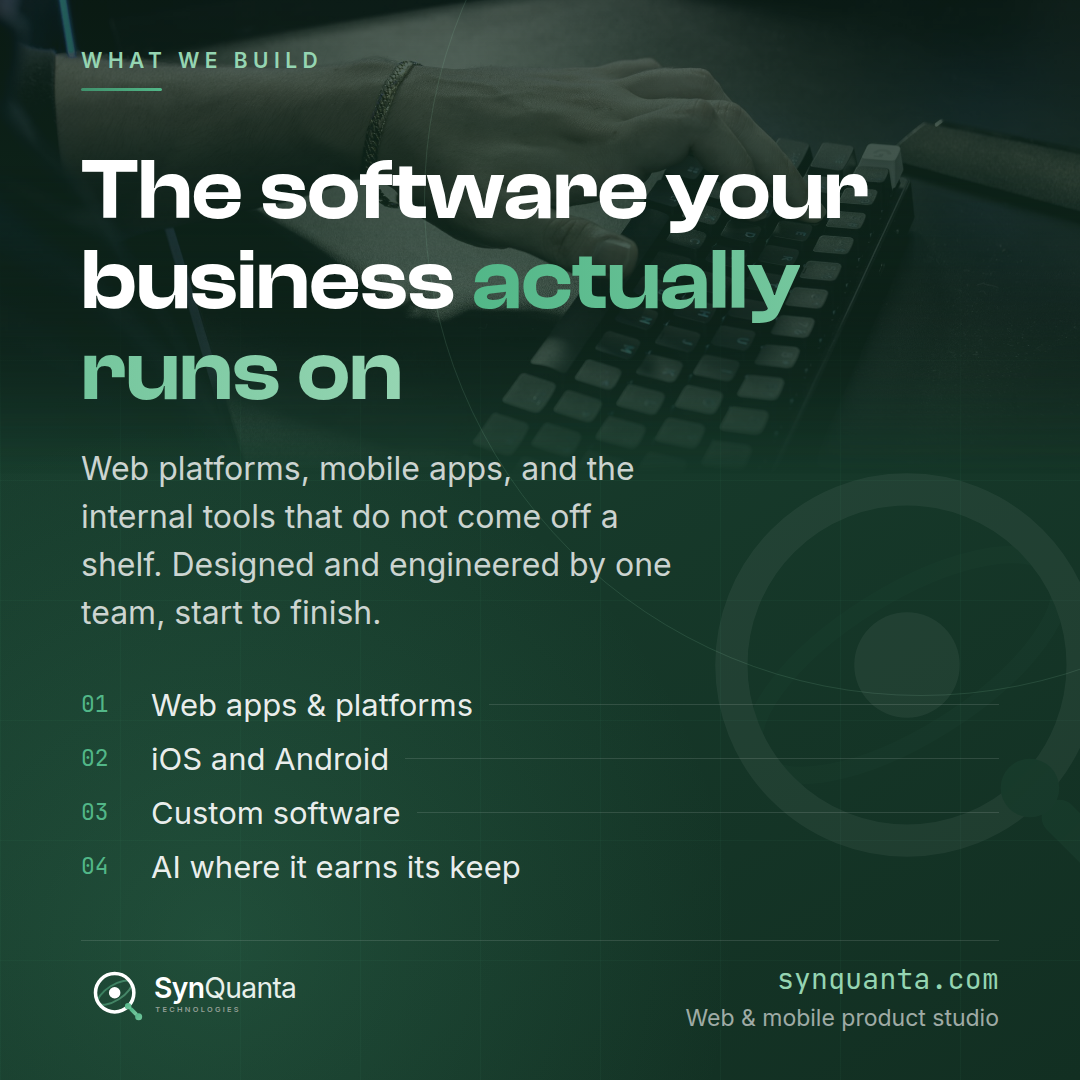
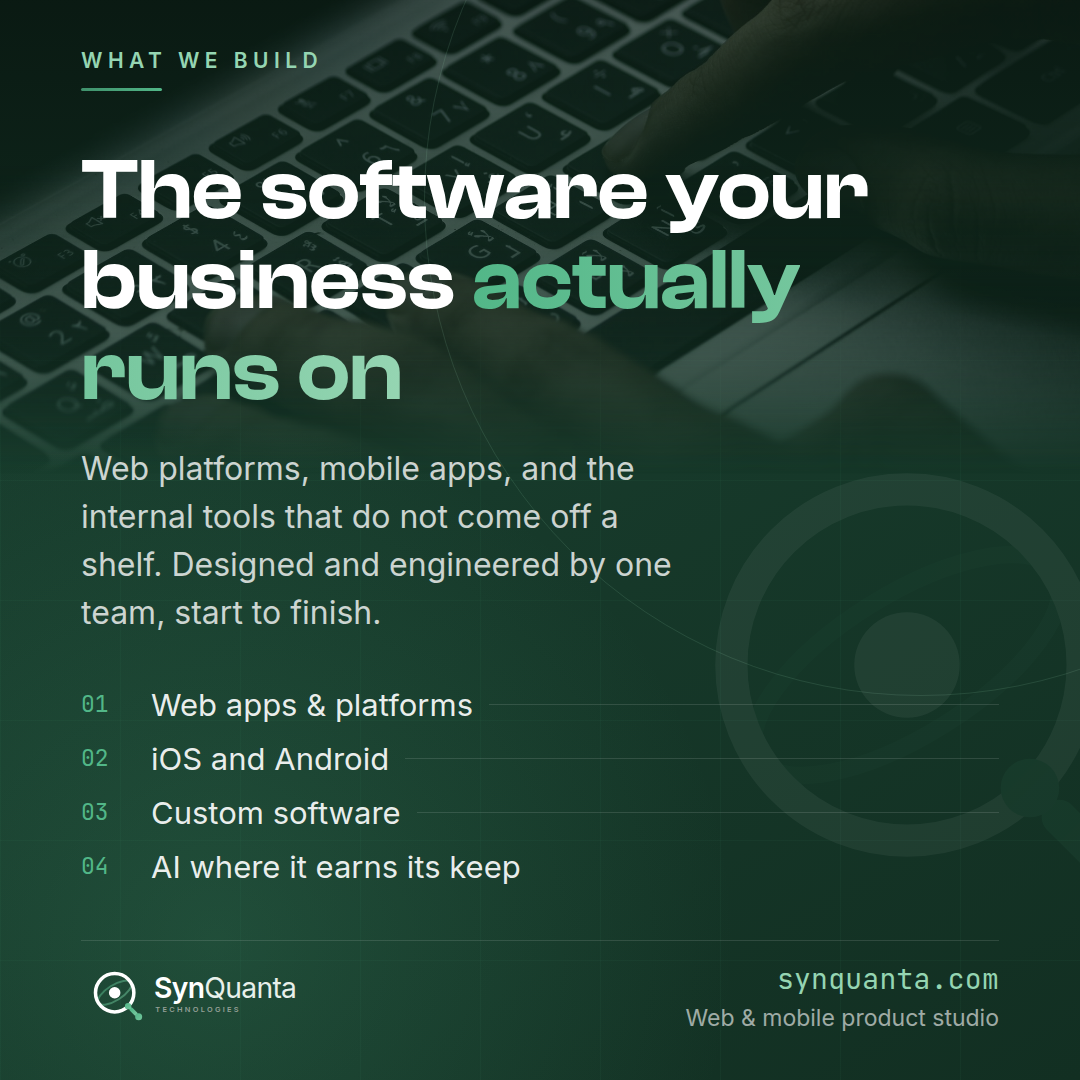
fix(marketing): correct image attribution and re-render from the actual sources
Cleanup after a background agent overwrote the ad photos mid-flight.

The committed source images and the committed PNGs had drifted apart: the
creatives were rendered from one set of photos, then the files underneath them
were replaced before the commit. CREDITS.md named a third combination. All
three are now reconciled and each row verified against its Pexels photo page:

  ad/building.jpg   Abdelrahman Ahmed
  ad/planning.jpg   Lukas Blazek
  ad/workspace.jpg  Justin Rieta

The replacement planning.jpg was rejected on the house rules and swapped back:
it had fully readable 'Testing' and 'Complete' sticky notes and a visible
profile. That is the third whiteboard image to fail the same way, which is why
the rule is written down. A fourth image, ad/mobile.jpg, arrived with no source
or licence recorded and was deleted rather than shipped — an unattributed image
is exactly what CREDITS.md exists to prevent, however good it looks.

All 15 creatives re-rendered from the images now on disk and re-verified:
exact pixel dimensions, 9:16 safe zones clear, no price drift.

diff --git a/public/images/CREDITS.md b/public/images/CREDITS.md
@@ -11,9 +11,9 @@ All images below are royalty-free and licensed for commercial use with **no attr
 | `portfolio-texture.jpg` | Pexels | https://www.pexels.com/photo/worms-eyeview-of-green-trees-957024/ | Felix Mittermeier | Pexels License |
 | `faq-texture.jpg` | Pexels | https://www.pexels.com/photo/green-and-brown-forest-132428/ | Pixabay (contributor) | Pexels License |
 | `contact-texture.jpg` | Unsplash | https://unsplash.com/photos/aerial-view-of-ocean-waves-hitting-the-shore-NWoBuClstZ8 | (aerial ocean waves) | Unsplash License |
-| `ad/building.jpg` | Pexels | https://www.pexels.com/photo/28993127/ | Matheus Bertelli | Pexels License |
+| `ad/building.jpg` | Pexels | https://www.pexels.com/photo/close-up-of-hands-typing-on-keyboard-at-night-31421513/ | Abdelrahman Ahmed | Pexels License |
 | `ad/planning.jpg` | Pexels | https://www.pexels.com/photo/574071/ | Lukas Blazek | Pexels License |
-| `ad/workspace.jpg` | Pexels | https://www.pexels.com/photo/546819/ | Luis Gomes | Pexels License |
+| `ad/workspace.jpg` | Pexels | https://www.pexels.com/photo/moody-workspace-with-keyboard-and-gadgets-34110027/ | Justin Rieta | Pexels License |
 
 ## Notes
 - Images are sized and re-encoded server-side via the CDN's own width/quality parameters (Unsplash `w=&q=&fm=jpg`, Pexels `w=&auto=compress`). All files are JPEG, longest edge ≤ 2400px, and under ~500 KB. (An earlier version of this note said no image tooling was installed — that is now out of date: `sharp` is a devDependency and ImageMagick 6 is on the machine.)
